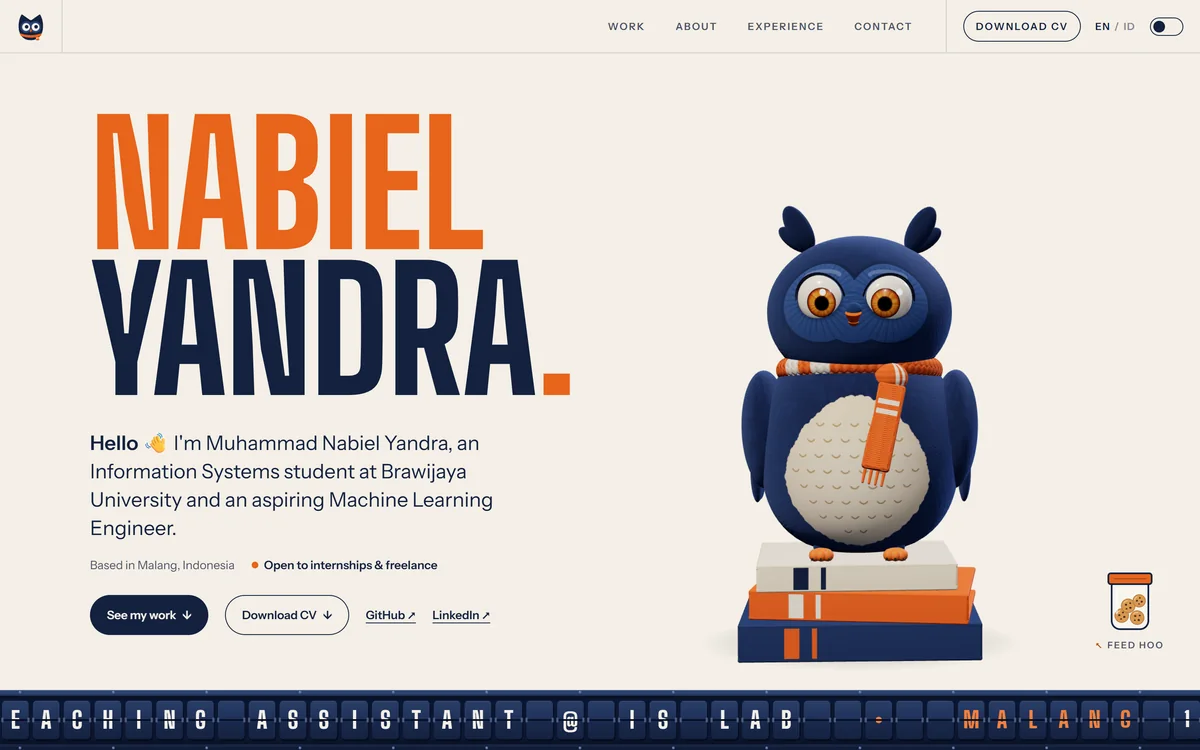
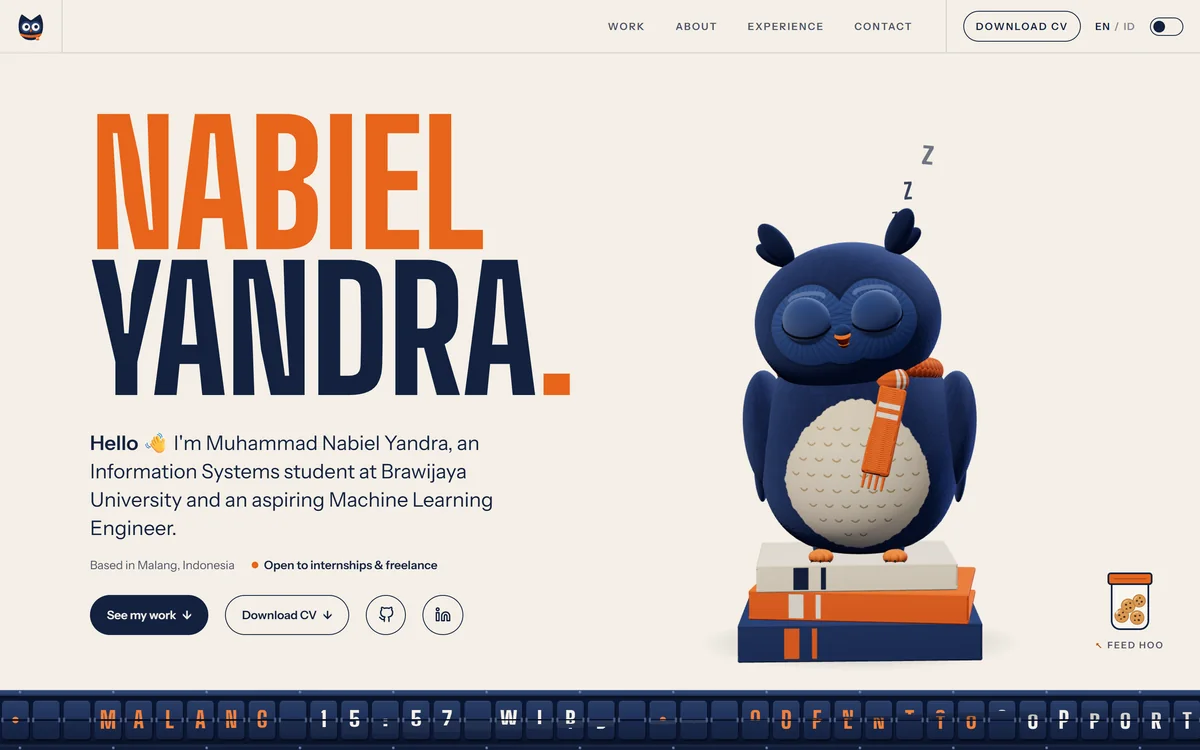
feat: night cover for the portfolio card; Hoo wakes up visibly at night
- The portfolio card shows Hoo asleep in the light theme and awake in the dark one (imageNight, faded in with the theme)

- Switched to the dark theme while asleep, Hoo now wakes once the theme's circular reveal has passed, so his eyes opening is seen, the same as being clicked awake

diff --git a/src/components/owl/Owl.jsx b/src/components/owl/Owl.jsx
@@ -55,6 +55,7 @@ const AWAKE_AFTER_CLICK_S = 6 // ...after being woken by a click
 const AWAKE_AFTER_FOOD_S = 8 // ...after a treat
 const DROWSY_S = 3 // heavy eyelids, a yawn and a nod before it's asleep
 const EAT_S = 1.3
+const NIGHT_WAKE_DELAY_S = 0.8 // the theme switch's circular reveal takes 0.65s
 
 /** Shared materials: one instance per surface keeps shader programs and draw state low. */
 function useMaterials() {
@@ -309,6 +310,7 @@ export default function Owl({
     drowsyT: 0,
     sleep: 0, // how closed the eyes are and how far the head has dropped, 0..1
     // food
+    nightWake: -1, // seconds left before waking up for the night, -1 = not waiting
     want: false, // a treat is close: beak open, eyes wide
     keen: 0, // eased version of want, so the lean and the eyes glide in and out
     eating: 0, // eased 0..1 while eating
@@ -460,11 +462,21 @@ export default function Owl({
 
     // ---- awake, drowsy, asleep ----
     const busy = st.want || st.eatT >= 0 || st.spin >= 0 || st.hopY > 0
+    if (!night) st.nightWake = -1
     if (!flying) {
       if (night) {
-        // nocturnal: wide awake all night
-        if (st.phase !== 'awake') wake(AWAKE_S)
-        st.awakeLeft = AWAKE_S
+        // nocturnal: wide awake all night. Switched to night while asleep, it
+        // wakes once the theme's circular reveal has passed over it, so the
+        // eyes opening is actually seen (same wake-up as a click)
+        if (st.phase !== 'awake') {
+          if (st.nightWake < 0) st.nightWake = NIGHT_WAKE_DELAY_S
+          st.nightWake -= dt
+          if (st.nightWake <= 0) {
+            st.nightWake = -1
+            wake(AWAKE_S)
+          }
+        }
+        if (st.phase === 'awake') st.awakeLeft = AWAKE_S
       } else if (st.phase === 'awake' && !busy && !reduceMotion) {
         st.awakeLeft -= dt
         if (st.awakeLeft <= 0) {

diff --git a/src/data/projects.js b/src/data/projects.js
@@ -12,6 +12,7 @@
  *  - tech        array of technologies used
  *  - image       optional, e.g. '/projects/my-project.webp' (put the file in public/projects/)
  *                (16:10); if empty, the title is set in type as the cover
+ *  - imageNight  optional cover swapped in when the dark theme is on
  *  - github      optional repo URL
  *  - demo        optional live demo URL
  *  - year        number
@@ -45,7 +46,8 @@ export const projects = [
       id: "Website ini. Portofolio dua bahasa dengan burung hantu 3D buatan sendiri dan ticker split-flap, diatur supaya tetap mulus di laptop biasa.",
     },
     tech: ['React', 'Three.js', 'Framer Motion', 'Vite'],
-    image: '/projects/portfolio.webp',
+    image: '/projects/portfolio.webp', // Hoo asleep, as he is by day
+    imageNight: '/projects/portfolio-night.webp', // shown in the dark theme: he's up at night
     github: 'https://github.com/nabielyr/nabiel-portofolio',
     demo: 'https://nabiel-portofolio-five.vercel.app/',
     year: 2026,

diff --git a/src/components/ProjectCard.jsx b/src/components/ProjectCard.jsx
@@ -35,7 +35,12 @@ export default function ProjectCard({ project }) {
         aria-label={`${project.title} - ${t('projects.view')}`}
       >
         {project.image ? (
-          <img src={project.image} alt="" loading="lazy" width="1200" height="750" />
+          <>
+            <img src={project.image} alt="" loading="lazy" width="1200" height="750" />
+            {project.imageNight && (
+              <img className={styles.night} src={project.imageNight} alt="" loading="lazy" width="1200" height="750" />
+            )}
+          </>
         ) : (
           <TypeCover title={project.title} />
         )}

diff --git a/src/components/ProjectCard.module.css b/src/components/ProjectCard.module.css
@@ -39,6 +39,20 @@
   transition: transform 0.8s var(--ease-out);
 }
 
+/* a second cover for the dark theme, faded in over the first */
+.cover .night {
+  position: absolute;
+  inset: 0;
+  opacity: 0;
+  transition:
+    transform 0.8s var(--ease-out),
+    opacity 0.5s var(--ease-out);
+}
+
+[data-theme='dark'] .cover .night {
+  opacity: 1;
+}
+
 .cover:hover img,
 .cover:hover .typeCover {
   transform: scale(1.04);
